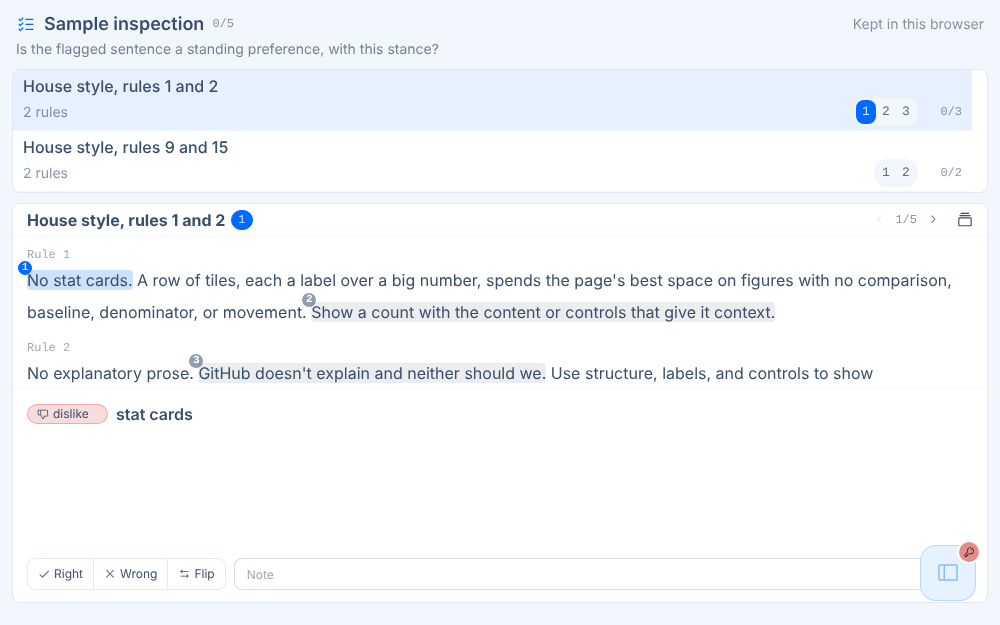
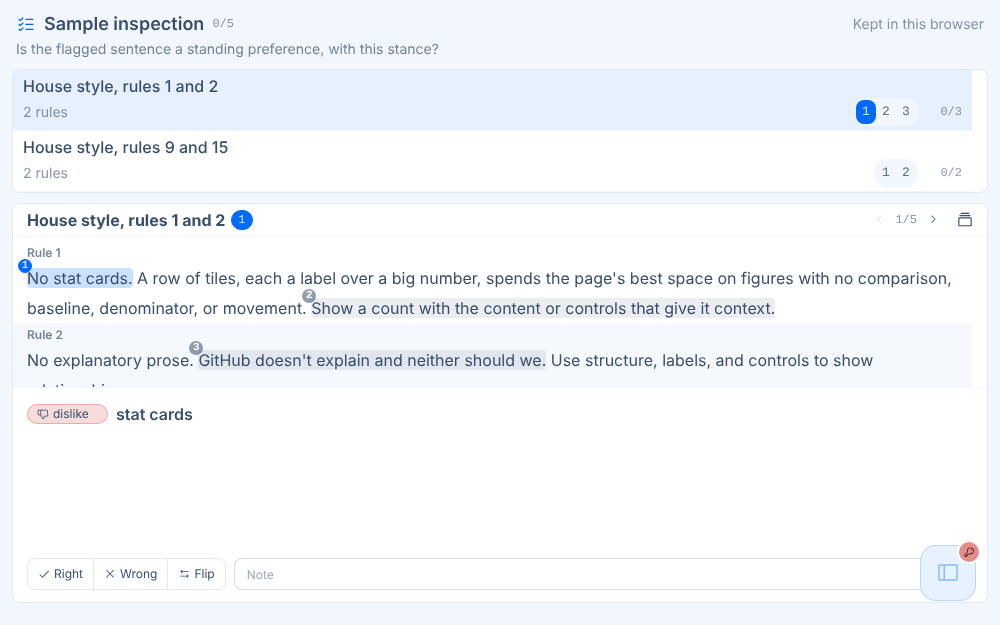
Inspection: the owner's turns on soft bands, set compact
Every other turn in the input pane sits on a faint base-200 band the width
of the pane, and the turn label is a readable semibold at 70% over its words.
The spacing is compact: a block keeps 6px above its label and none below,
the label takes a tight line over a 4px margin, and the input's leading drops
from 32px to 30px (36px to 34px in the deck). Each passage's 14px disc keeps
its corner and clears the label and the line above by a pixel.

Claude-Session: https://claude.ai/code/session_01Ug8CXB6PirpgRbETf2yWnc

Changed region(s): [[0.0, 0.3952, 0.961, 0.608]]

diff --git a/pages/inspection.html b/pages/inspection.html
@@ -98,11 +98,14 @@
   const FILL = { cur: 'bg-primary/20 data-hot:bg-primary/35', other: 'bg-base-content/10 data-hot:bg-base-content/20' };
   // A passage's number: a 14px disc on its top-left corner, out of the line,
   // between the caps under it and the line or label over it. The input pane's
-  // leading (INPUT) and the label's margin leave it that room, a pixel clear
-  // each way, in the strip and in the deck.
+  // leading (INPUT) and the label's margin (TURN) leave it that room, a pixel
+  // clear each way, in the strip and in the deck.
   const BADGE = 'grid h-3.5 min-w-3.5 cursor-pointer place-items-center rounded-full border px-[2px] font-mono text-[11px] leading-none font-semibold tabular-nums';
   const DISCS = 'absolute -top-[9px] -left-[9px] flex gap-px select-none';
-  const INPUT = { strip: 'px-3.5 leading-8', deck: 'px-4 leading-9' };
+  const INPUT = { strip: 'leading-7.5', deck: 'leading-8.5' };
+  // A turn: every other one on a faint band the width of the pane, its label
+  // over its words.
+  const TURN = { block: 'pt-1.5 even:bg-base-200/80', label: 'mb-1' };
   // A tab under the pointer, or whose passage is.
   const HOT = ['ring-1', 'ring-primary'];
 
@@ -274,8 +277,8 @@
   function cardHTML(r, o, big) {
     const pad = big ? 'px-4' : 'px-3.5';
     const blocks = r.source.blocks.map(b => `
-      <section data-block="${esc(b.id)}" class="flex flex-col py-1.5">
-        <h3 class="mb-px font-mono text-xs text-base-content/50">${esc(b.label || b.id)}</h3>
+      <section data-block="${esc(b.id)}" class="flex flex-col ${pad} ${TURN.block}">
+        <h3 class="${TURN.label} text-xs leading-none font-semibold text-base-content/70">${esc(b.label || b.id)}</h3>
         <p class="whitespace-pre-wrap [overflow-wrap:anywhere]">${marked(r, b, o)}</p>
       </section>`).join('');
     // The seam is the card head's (linked-swiper), on the panel's top edge.
